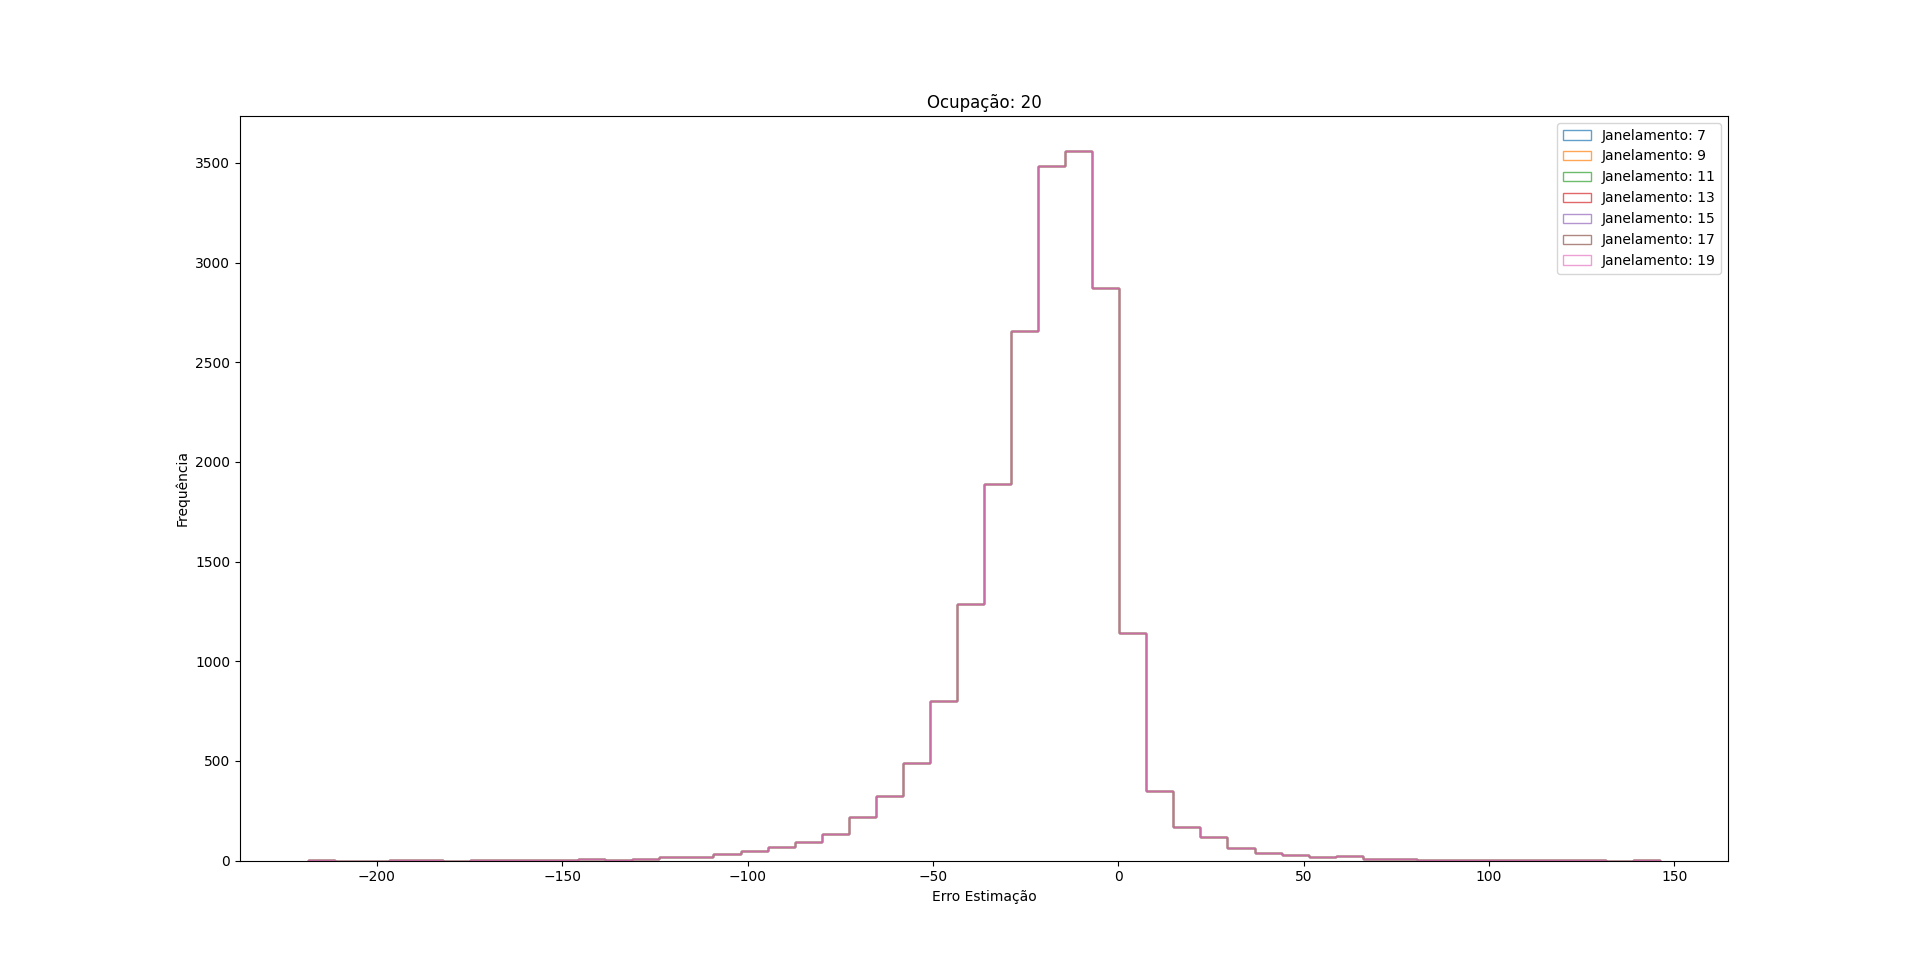
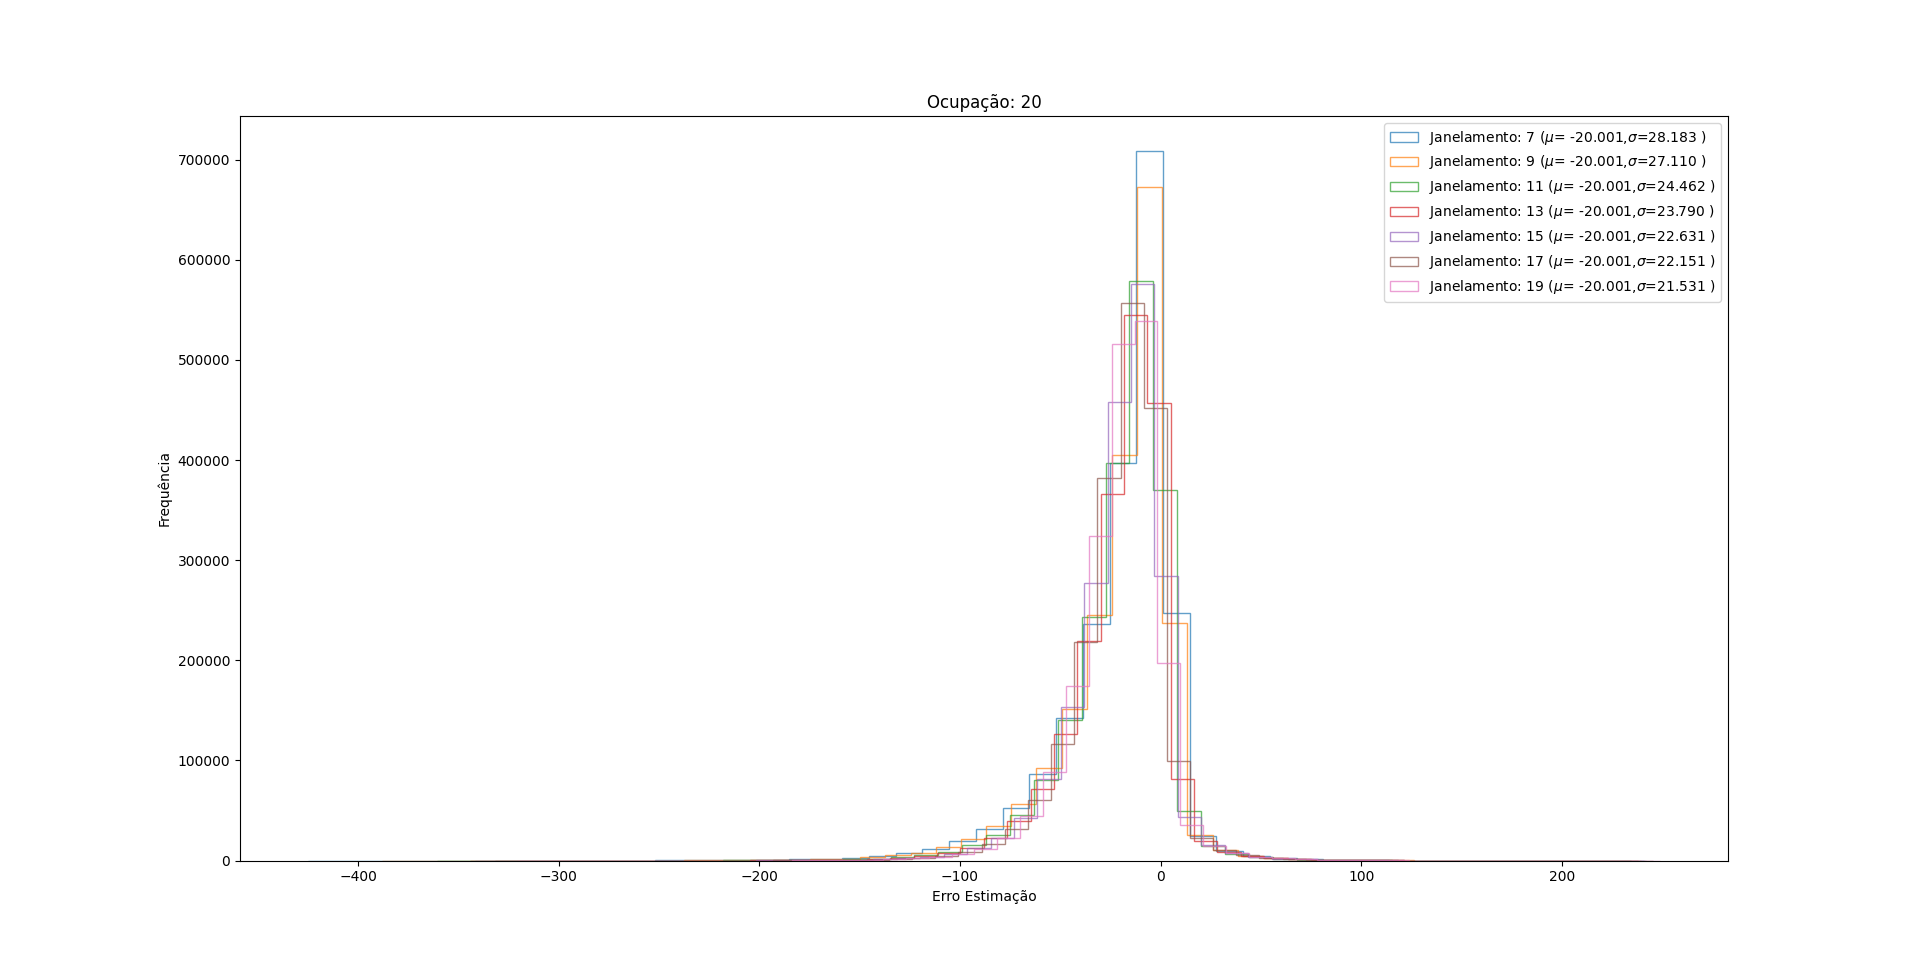
Finaliza e salva os plots do histograma de erro para cada uma das ocupacoes

diff --git a/FiltroOtimoContinuo/plotHistogramaErro.py b/FiltroOtimoContinuo/plotHistogramaErro.py
@@ -165,12 +165,14 @@ for f in range(len(ocupacao)):
             # Calcular erro de estimativa para o conjunto de teste e armazenar na lista
             for k in range(len(amplitude_estimadaTeste)):
                 erroEstimacaoKFold.append(amplitude_estimadaTeste[k] - amplitudeAmostrasTestes[k])
+            mediaKfold.append(np.mean(erroEstimacaoKFold))
+            desvioPadraoKfold.append(np.std(erroEstimacaoKFold))
 
         # Plotar o histograma apenas para o valor atual de janelamento
-        plt.hist(erroEstimacaoKFold, bins=50, alpha=0.7, histtype='step', label="Janelamento: " + str(n_janelamento[d]))
-        print("Janelamento:", n_janelamento[d])
-        print("Ocupacao:", ocupacao[f])
-        print("Erro estimacao: \n", erroEstimacaoKFold)
+        plt.hist(erroEstimacaoKFold, bins=50, alpha=0.7, histtype='step', label=f"Janelamento: {n_janelamento[d]} ($\mu$= {mediaKfold[-1]:.3f},$\sigma$={desvioPadraoKfold[-1]:.3f} )")
+        # print("Janelamento:", n_janelamento[d])
+        # print("Ocupacao:", ocupacao[f])
+        # print("Erro estimacao: \n", erroEstimacaoKFold)
 
     plt.xlabel("Erro Estimação")
     plt.ylabel("Frequência")
